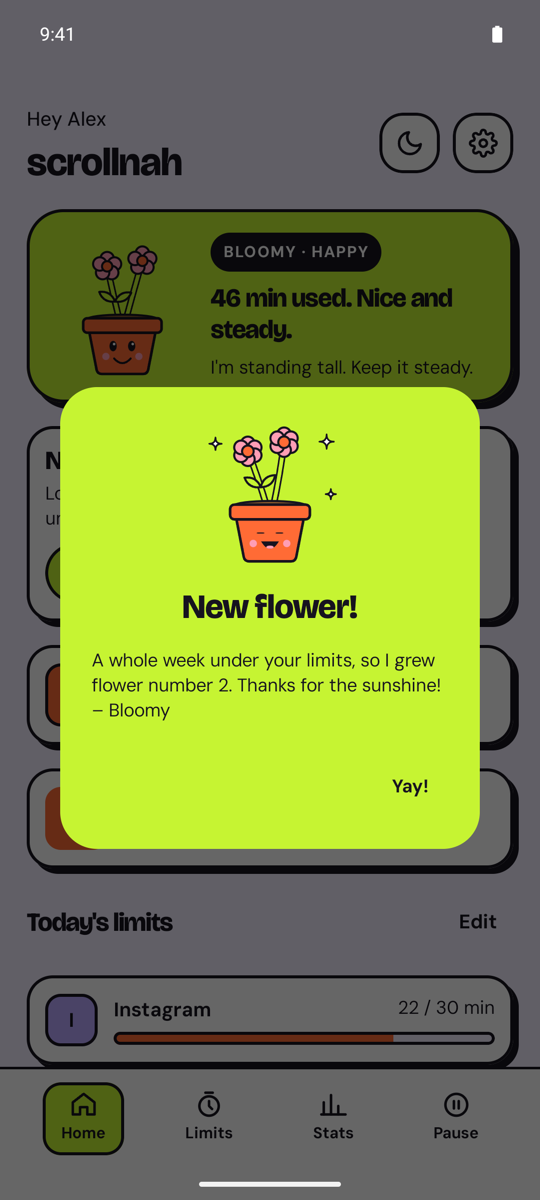
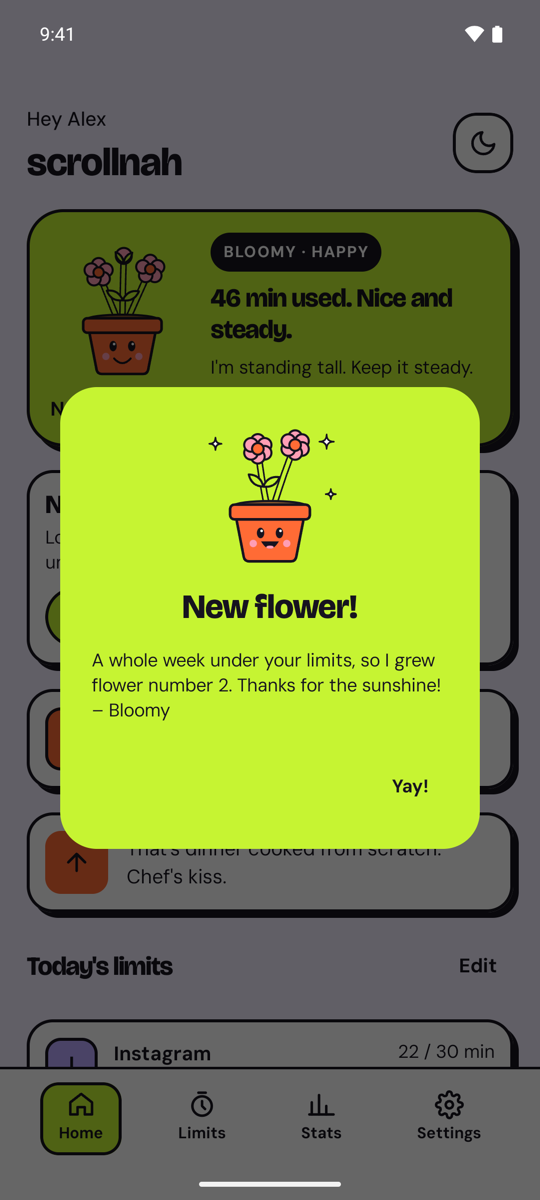
README: new screenshots with the Settings tab; bud on the Settings mascot card
Retook the 8 screenshots that showed the old Pause tab (Home, Stats, Limits,
Break reminders, Bloomy on Home, Settings, Garden, new-flower pop-up). The
Settings mascot card now also shows Bloomy's growing bud.

diff --git a/app/src/main/java/com/unscroll/app/ui/screens/SettingsScreen.kt b/app/src/main/java/com/unscroll/app/ui/screens/SettingsScreen.kt
@@ -139,6 +139,7 @@ fun SettingsScreen(onBack: () -> Unit = {}, onOpenGarden: () -> Unit = {}) {
                         MascotChoice(
                             theme = theme,
                             flowers = pot.flowers,
+                            budDays = pot.daysTowardNext, // the growing bud, like on Home
                             selected = mascot.theme == theme,
                             onClick = {
                                 container.appScope.launch {
@@ -333,6 +334,7 @@ internal fun MascotChoice(
     flowers: Int,
     selected: Boolean,
     onClick: () -> Unit,
+    budDays: Int = 0,
     modifier: Modifier = Modifier,
     mascotSize: Dp = 84.dp,
     detail: String? = null
@@ -347,7 +349,7 @@ internal fun MascotChoice(
             .padding(horizontal = 8.dp, vertical = 12.dp),
         horizontalAlignment = Alignment.CenterHorizontally
     ) {
-        Mascot(mood = MoodLevel.HAPPY, look = MascotLook(theme, flowers), size = mascotSize, animated = selected)
+        Mascot(mood = MoodLevel.HAPPY, look = MascotLook(theme, flowers, budDays), size = mascotSize, animated = selected)
         Text(theme.mascotName, fontWeight = FontWeight.Bold, color = contentColorOn(background), modifier = Modifier.padding(top = 6.dp))
         Text(
             detail ?: if (selected) "Picked" else "Tap to pick",

diff --git a/README.md b/README.md
@@ -21,11 +21,11 @@ A playful Android app that helps you scroll less, with a mascot that reacts to h
 
 | Home | Pause screen | Your week |
 |:---:|:---:|:---:|
-| <img src="screenshots/home-blobby.png" width="250" alt="Home with Blobby"> | <img src="screenshots/pause.png" width="250" alt="Pause screen"> | <img src="screenshots/stats.png" width="250" alt="Weekly report"> |
+| <img src="screenshots/home-blobby.png" width="250" alt="Home with Blobby"> | <img src="screenshots/pause.png" width="250" alt="Pause screen"> | <img src="screenshots/stats.png" width="250" alt="Weekly report: chart, where the time went per app, and the mascot's verdict"> |
 | **Limits (weekday and weekend)** | **Break reminders** | **A break reminder** |
 | <img src="screenshots/limits.png" width="250" alt="Limits with real app icons and a different weekend limit for YouTube"> | <img src="screenshots/break-reminders.png" width="250" alt="Break reminder settings"> | <img src="screenshots/break-reminder.png" width="250" alt="Break reminder notification and bubble over Chrome"> |
-| **Bloomy on Home** | **Pick your mascot** | **Bloomy's garden** |
-| <img src="screenshots/home-bloomy.png" width="250" alt="Home with Bloomy"> | <img src="screenshots/mascot-picker.png" width="250" alt="Mascot picker"> | <img src="screenshots/garden.png" width="250" alt="Garden"> |
+| **Bloomy on Home (next flower 5 of 7 days)** | **Settings: pick your mascot** | **Bloomy's garden** |
+| <img src="screenshots/home-bloomy.png" width="250" alt="Home with Bloomy, a growing bud and the next-flower progress"> | <img src="screenshots/mascot-picker.png" width="250" alt="Settings tab with the mascot picker"> | <img src="screenshots/garden.png" width="250" alt="Garden"> |
 | **Pick your buddy (setup)** | **Bloomy grew a flower** | **Focus from Quick Settings** |
 | <img src="screenshots/setup.png" width="250" alt="Setup: pick Blobby or Bloomy"> | <img src="screenshots/bloom.png" width="250" alt="New flower celebration"> | <img src="screenshots/focus-tile.png" width="250" alt="Focus tile in Quick Settings"> |
 | **Home-screen widgets** | | |

diff --git a/CLAUDE_UPDATES.md b/CLAUDE_UPDATES.md
@@ -383,7 +383,12 @@ debug gallery (below).
 
 ## Version 2.2.2 (2026-10-30)
 - `versionCode` 10, `versionName` "2.2.2": the floating-window fix below (+ "Blobby: YouTube is paused" message) and
-  the Settings tab / Pause preview change. README and store screenshots still show the old Pause tab.
+  the Settings tab / Pause preview change.
+- README screenshots retaken after the release (new bottom bar, Settings tab, Stats per-app list + verdict, Bloomy's
+  bud + "Next flower"): home-blobby, stats, limits, break-reminders, home-bloomy, mascot-picker, garden, bloom.
+  Same method as before (demo mode, System UI demo status bar 9:41, `sips -Z 1200`). Found while doing it: the
+  Settings mascot card didn't show Bloomy's bud; fixed (`MascotChoice(budDays)`), not yet in a release.
+  **Play Store screenshots (`store/screenshots/`) still show the old Pause tab.**
 
 ## Blocked apps can't keep playing in a floating window (2026-10-30, developer report)
 Released in 2.2.2. After pausing, `LimitActions.showFloatingPaused()` posts "<Mascot>: <App> is paused" (why: limit /
